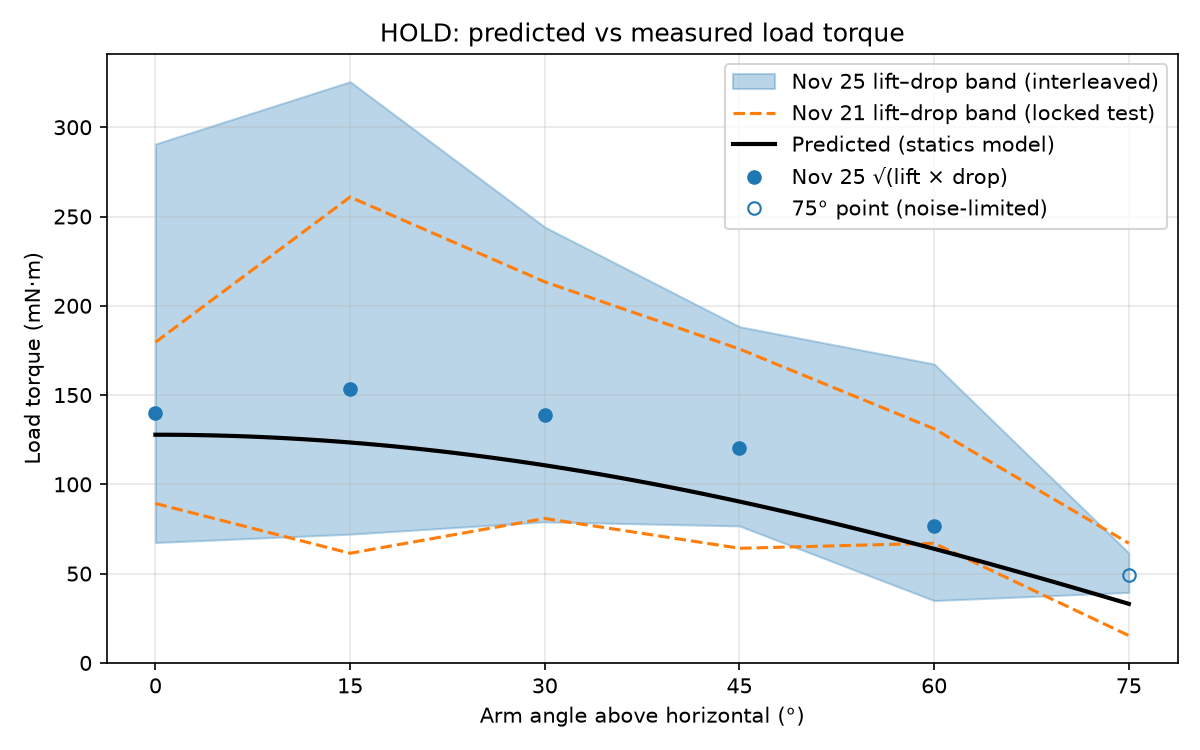
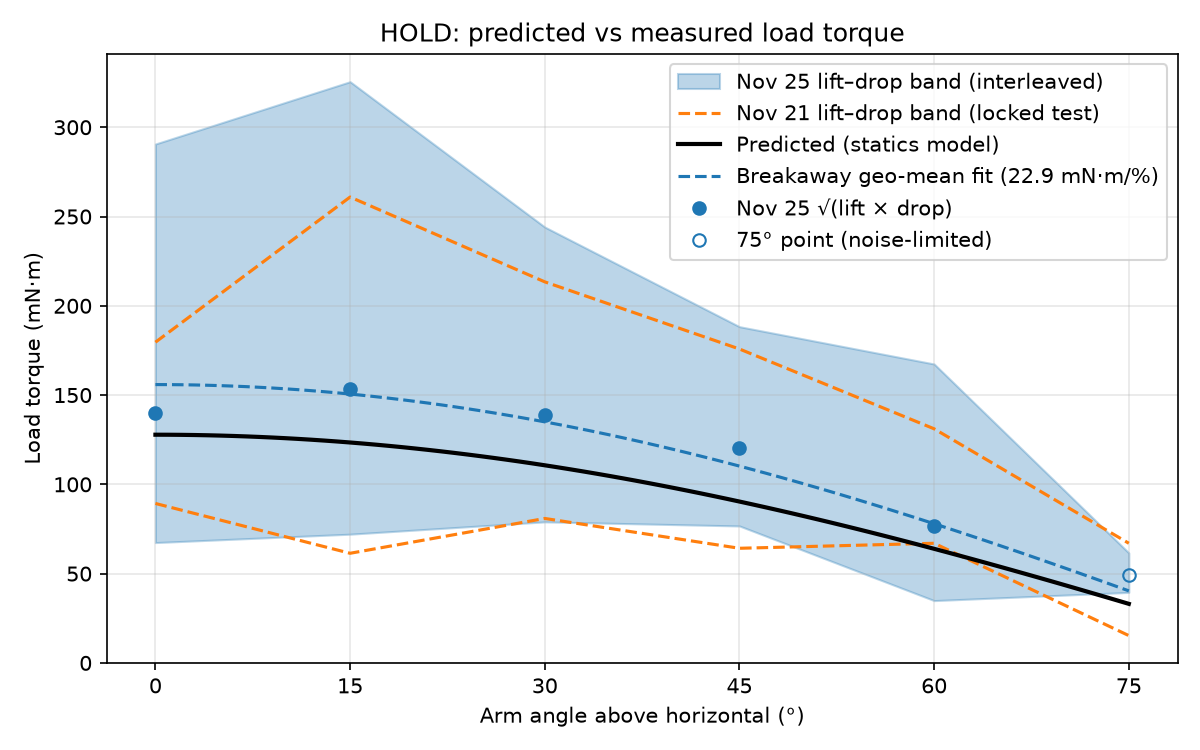
new analysis

diff --git a/analysis/plotBreakaway.py b/analysis/plotBreakaway.py
@@ -1,0 +1,48 @@
+# analysis/plotBreakaway.py
+import numpy as np
+import matplotlib.pyplot as plt
+
+rawData = np.loadtxt("data/loadTorque.csv", delimiter=",", skiprows=1)
+predictedMNm = rawData[:, 1]
+liftShift1125MNm = rawData[:, 4]
+dropShift1125MNm = rawData[:, 5]
+
+stallTorquePerPct = 27.9
+liftDuty = liftShift1125MNm / stallTorquePerPct
+dropDuty = dropShift1125MNm / stallTorquePerPct
+
+fitX = predictedMNm[:5]
+liftSlope = np.sum(fitX * liftDuty[:5]) / np.sum(fitX * fitX)
+dropSlope = np.sum(fitX * dropDuty[:5]) / np.sum(fitX * fitX)
+
+liftTorquePerPct = 1.0 / liftSlope
+dropTorquePerPct = 1.0 / dropSlope
+geoMeanTorquePerPct = np.sqrt(liftTorquePerPct * dropTorquePerPct)
+
+print(f"Lifting (breakaway): {liftTorquePerPct:.1f} mN·m per %")
+print(f"Dropping (back-driven): {dropTorquePerPct:.1f} mN·m per %")
+print(f"Geometric mean: {geoMeanTorquePerPct:.1f} mN·m per %")
+
+xLine = np.array([0.0, 140.0])
+
+plt.figure(figsize=(8, 5))
+plt.plot(fitX, liftDuty[:5], color="tab:blue", marker="o", linestyle="None")
+plt.plot(predictedMNm[-1], liftDuty[-1], color="tab:blue", marker="o", markerfacecolor="none", linestyle="None")
+plt.plot(xLine, liftSlope * xLine, color="tab:blue", linestyle="-", label=f"Lifting (breakaway): {liftTorquePerPct:.1f} mN·m per %")
+
+plt.plot(fitX, dropDuty[:5], color="tab:orange", marker="o", linestyle="None")
+plt.plot(predictedMNm[-1], dropDuty[-1], color="tab:orange", marker="o", markerfacecolor="none", linestyle="None")
+plt.plot(xLine, dropSlope * xLine, color="tab:orange", linestyle="-", label=f"Dropping (back-driven): {dropTorquePerPct:.1f} mN·m per %")
+
+plt.plot(xLine, xLine / stallTorquePerPct, color="black", linestyle="--", label="Stall calibration: 27.9 mN·m per %")
+
+plt.xlabel("Known load torque (mN·m)")
+plt.ylabel("Duty shift (%)")
+plt.title("HOLD: stall vs breakaway calibration")
+plt.xlim(left=0)
+plt.ylim(bottom=0)
+plt.grid(True, alpha=0.3)
+plt.legend()
+plt.tight_layout()
+plt.savefig("data/breakawayCalibration.png", dpi=150)
+plt.show()

diff --git a/analysis/plotLoadTorque.py b/analysis/plotLoadTorque.py
@@ -11,15 +11,29 @@ liftShift1125MNm = rawData[:, 4]
 dropShift1125MNm = rawData[:, 5]
 geoMean1125MNm = rawData[:, 6]
 
+stallTorquePerPct = 27.9
+liftDuty = liftShift1125MNm / stallTorquePerPct
+dropDuty = dropShift1125MNm / stallTorquePerPct
+
+fitX = predictedMNm[:5]
+liftSlope = np.sum(fitX * liftDuty[:5]) / np.sum(fitX * fitX)
+dropSlope = np.sum(fitX * dropDuty[:5]) / np.sum(fitX * fitX)
+
+liftTorquePerPct = 1.0 / liftSlope
+dropTorquePerPct = 1.0 / dropSlope
+geoMeanTorquePerPct = np.sqrt(liftTorquePerPct * dropTorquePerPct)
+
 thetaDeg = np.arange(0, 76, 1)
 thetaRad = np.deg2rad(thetaDeg)
 smoothPredictedMNm = 127.8 * np.cos(thetaRad)
+geoMeanFitMNm = (stallTorquePerPct / geoMeanTorquePerPct) * smoothPredictedMNm
 
 plt.figure(figsize=(8, 5))
 plt.fill_between(angleDeg, dropShift1125MNm, liftShift1125MNm, color="tab:blue", alpha=0.3, label="Nov 25 lift–drop band (interleaved)")
 plt.plot(angleDeg, liftShift1121MNm, color="tab:orange", linestyle="--", label="Nov 21 lift–drop band (locked test)")
 plt.plot(angleDeg, dropShift1121MNm, color="tab:orange", linestyle="--")
 plt.plot(thetaDeg, smoothPredictedMNm, color="black", linestyle="-", linewidth=2, label="Predicted (statics model)")
+plt.plot(thetaDeg, geoMeanFitMNm, color="tab:blue", linestyle="--", linewidth=1.5, label=f"Breakaway geo-mean fit ({geoMeanTorquePerPct:.1f} mN·m/%)")
 plt.plot(angleDeg[:-1], geoMean1125MNm[:-1], color="tab:blue", marker="o", linestyle="None", label="Nov 25 √(lift × drop)")
 plt.plot(angleDeg[-1], geoMean1125MNm[-1], color="tab:blue", marker="o", markerfacecolor="none", linestyle="None", label="75° point (noise-limited)")
 
